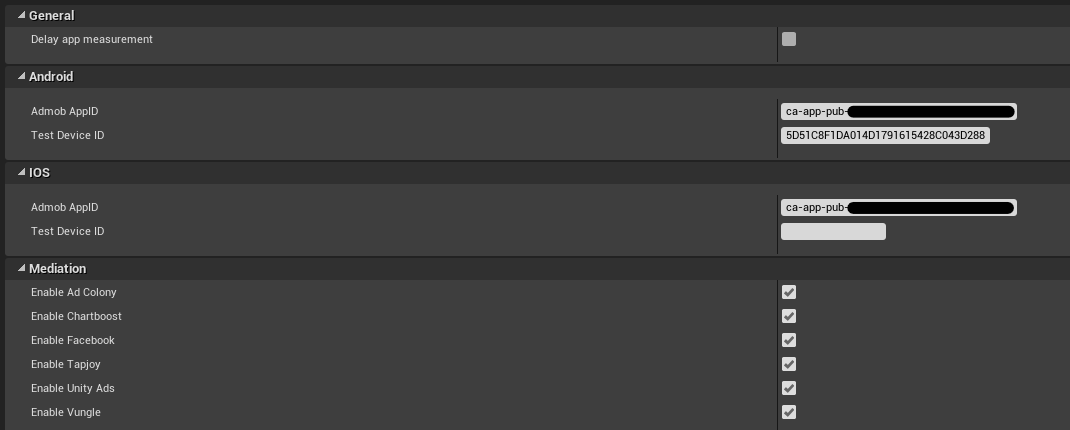
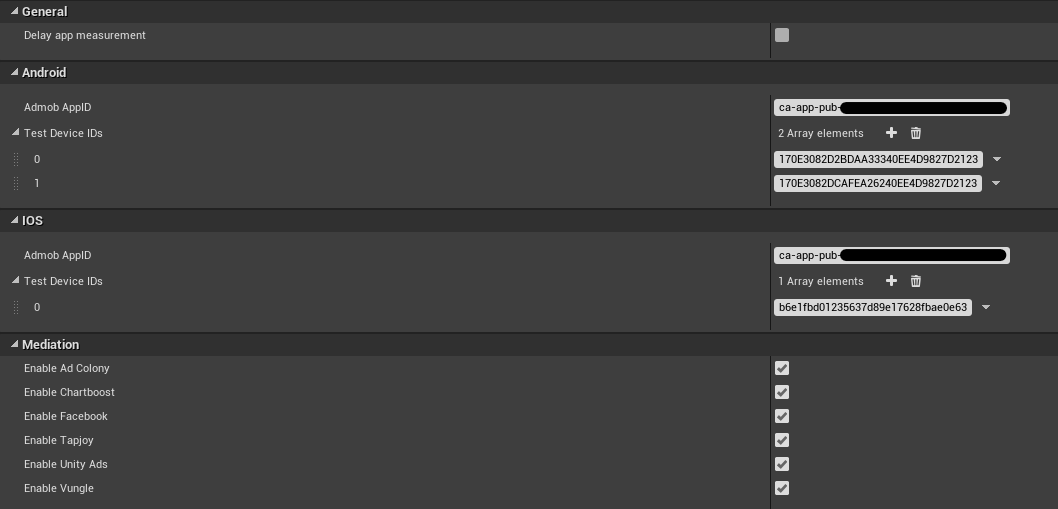
update admob goodies settings description

Changed region(s): [[0.0, 0.0, 1.0, 1.0], [0.7174, 0.0302, 0.7486, 0.1209]]

diff --git a/docs/ue-plugins/admob-unreal.md b/docs/ue-plugins/admob-unreal.md
@@ -42,7 +42,7 @@ It is recommended to copy the ID via the highlighted copy to clipboard button to
 
 * Delay app measurement - delays app measurement until the Ad Subsystem is explicitly initialized. Use this option if you need to collect any kind of consent before gathering user-level event data. By default event data is being sent to Google as soon as the app launches.
 * Admob AppID - unique AdMob app ID. If this field is empty your application will crash when launched on an actual device.
-* Test Device ID - this option specifies the ID of a device that will receive test ads for real ad units. Refer to the test ads section for more information.
+* Test Device IDs - this option specifies the IDs of devices that will receive test ads for real ad units. Refer to the test ads section for more information.
 * Mediation - specify which mediation network providers should be enabled.
 
 ## Loading and showing ads
